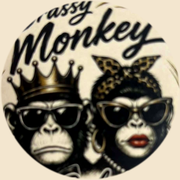
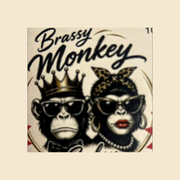
Show the full Brassy Monkey emblem without cropping the wordmark.

diff --git a/index.html b/index.html
@@ -11,8 +11,8 @@
   <meta name="apple-mobile-web-app-capable" content="yes" />
   <meta name="apple-mobile-web-app-status-bar-style" content="default" />
   <meta name="apple-mobile-web-app-title" content="Brassy Monkey" />
-  <link rel="icon" href="apple-touch-icon.png" type="image/png" />
-  <link rel="apple-touch-icon" href="apple-touch-icon.png" />
+  <link rel="icon" href="apple-touch-icon.png?v=3" type="image/png" />
+  <link rel="apple-touch-icon" href="apple-touch-icon.png?v=3" />
   <link rel="preconnect" href="https://fonts.googleapis.com" />
   <link rel="preconnect" href="https://fonts.gstatic.com" crossorigin />
   <link href="https://fonts.googleapis.com/css2?family=Playball&display=swap" rel="stylesheet" />
@@ -61,22 +61,22 @@
     }
     header.brand { text-align: center; padding: 4px 0 2px; }
     .logo-ring {
-      width: min(200px, 54vw);
-      height: min(200px, 54vw);
-      margin: 0 auto 8px;
-      border-radius: 50%;
-      padding: 4px;
-      background: conic-gradient(from 140deg, #E8D48A, #8A6A28, #F3E2A8, #8A6A28, #E8D48A);
-      box-shadow: var(--shadow);
+      width: min(260px, 72vw);
+      height: min(260px, 72vw);
+      margin: 0 auto 2px;
+      border-radius: 0;
+      padding: 0;
+      background: transparent;
+      box-shadow: none;
     }
     .logo-ring img {
       width: 100%;
       height: 100%;
       object-fit: contain;
       object-position: center;
-      border-radius: 50%;
+      border-radius: 0;
       display: block;
-      background: var(--cream);
+      background: transparent;
     }
     .wordmark {
       font-family: Playball, Palatino, serif;
@@ -93,8 +93,8 @@
       color: var(--muted);
     }
     body[data-page]:not([data-page="home"]) header.brand .logo-ring {
-      width: 72px;
-      height: 72px;
+      width: 108px;
+      height: 108px;
     }
     body[data-page]:not([data-page="home"]) .wordmark { font-size: 28px; }
     .card {
@@ -360,7 +360,7 @@
 <body>
   <div class="wrap">
     <header class="brand">
-      <div class="logo-ring"><img src="logo-crop.jpg" alt="Brassy Monkey logo" /></div>
+      <div class="logo-ring"><img src="logo-crop.jpg?v=3" alt="Brassy Monkey logo" /></div>
       <p class="wordmark">Brassy Monkey</p>
       <p class="submark">SALON &amp; BARBER SHOP</p>
     </header>
